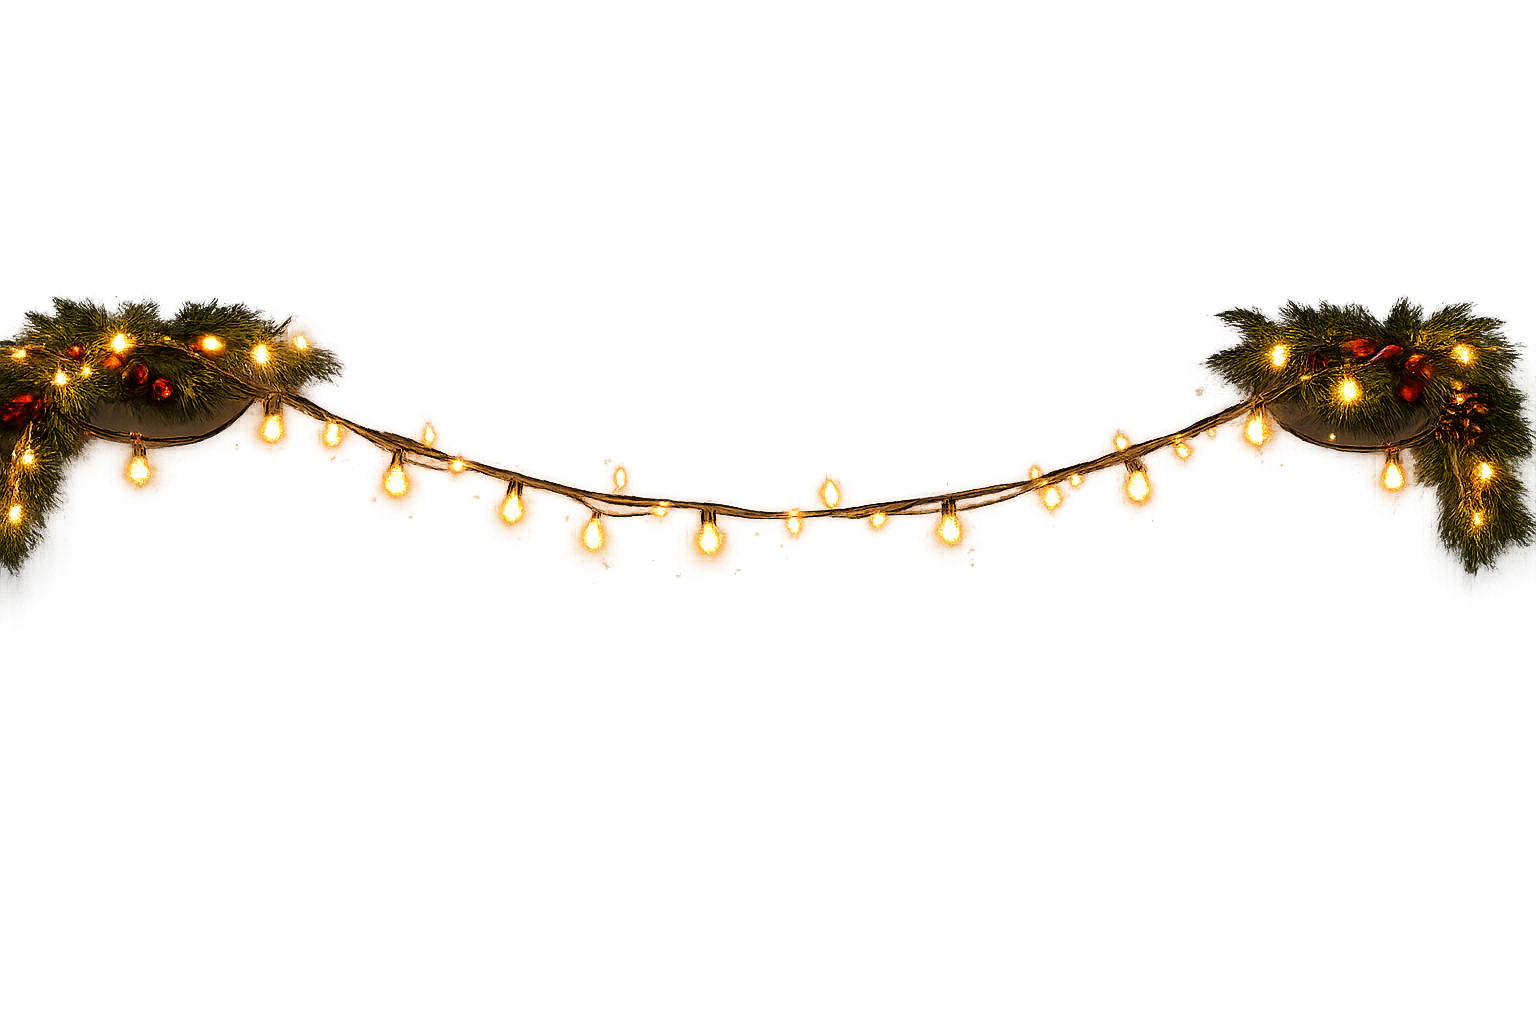
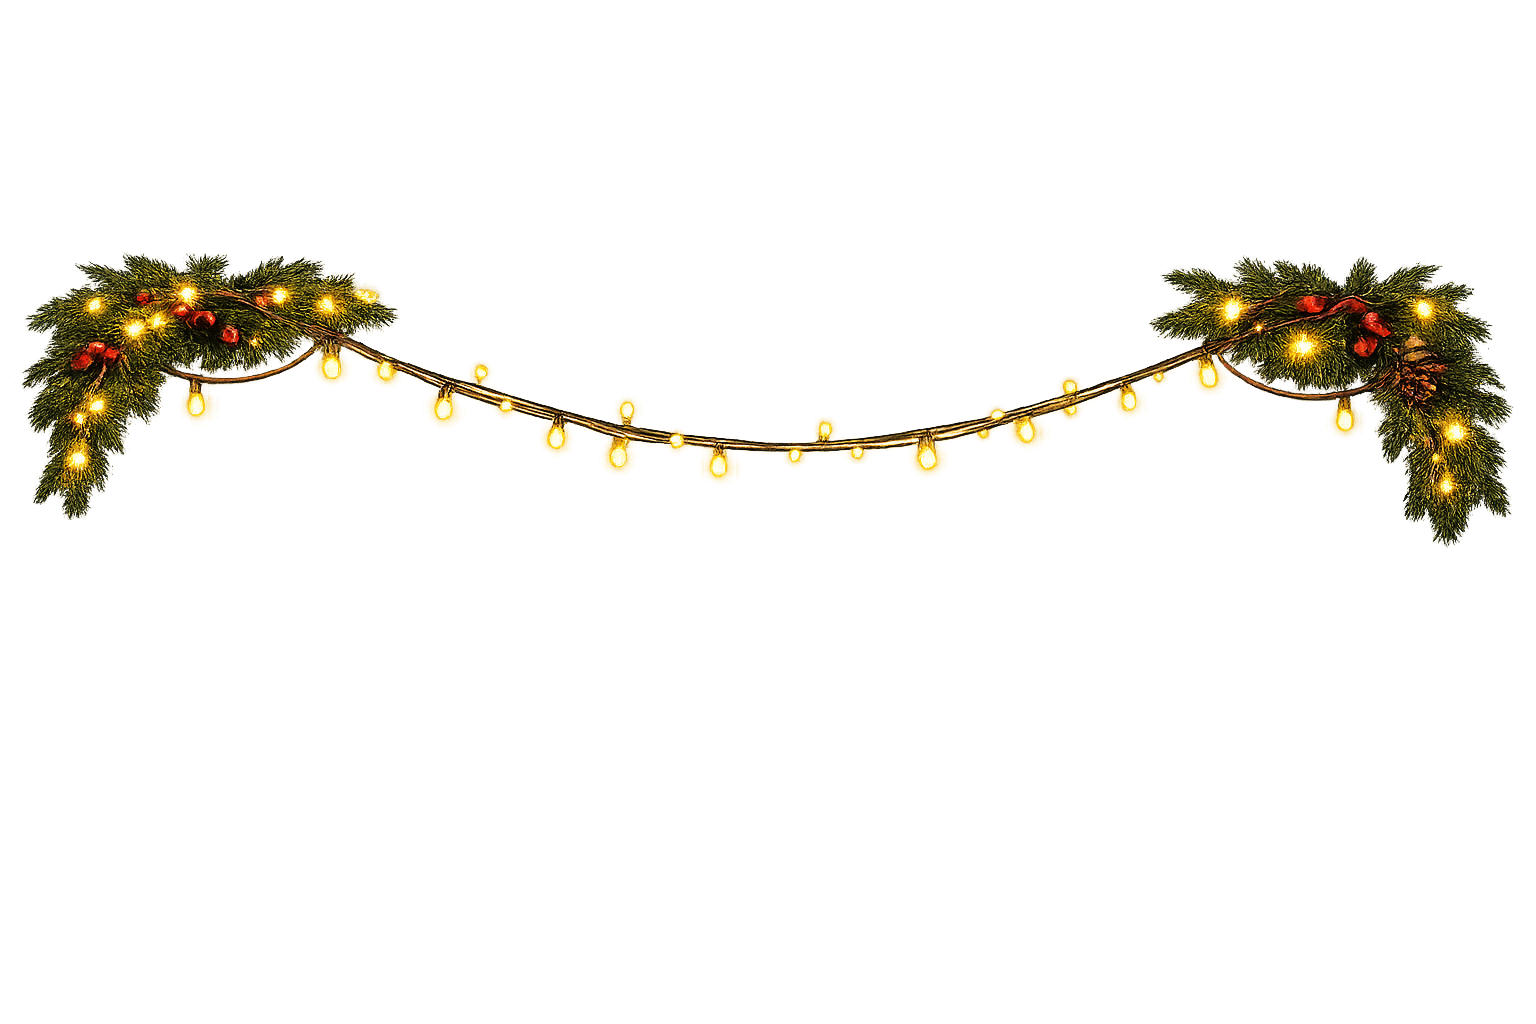
Navbar Added, Hero Section UI worked

Changed region(s): [[0.0, 0.25, 1.0, 0.5938]]

diff --git a/components/HeroSection.tsx b/components/HeroSection.tsx
@@ -17,15 +17,27 @@ import QuoteForm from "./QuoteForm";
 // ── Snowflake + thin red divider ───────────────────────────────────────────────
 function HeadingDivider() {
   return (
-    <div className="flex items-center gap-3 my-6">
+    <div className="flex items-center gap-3.5 my-3 w-full max-w-[480px] xl:max-w-[540px]">
       <div
-        className="h-px"
-        style={{ width: 60, backgroundColor: "var(--primary)" }}
+        className="flex-1 h-px"
+        style={{
+          background:
+            "linear-gradient(90deg, transparent 0%, var(--primary) 100%)",
+        }}
       />
-      <Snowflake size={14} style={{ color: "var(--primary)" }} />
+      <Snowflake
+        size={18}
+        style={{
+          color: "var(--primary)",
+          filter: "drop-shadow(0 0 6px rgba(217, 53, 53, 0.6))",
+        }}
+      />
       <div
-        className="h-px"
-        style={{ width: 60, backgroundColor: "var(--primary)" }}
+        className="flex-1 h-px"
+        style={{
+          background:
+            "linear-gradient(90deg, var(--primary) 0%, transparent 100%)",
+        }}
       />
     </div>
   );
@@ -61,7 +73,7 @@ function TrustBadge({
         <Icon size={18} style={{ color: "var(--primary)" }} />
       </div>
       <p
-        className="text-xs font-semibold leading-tight"
+        className="text-xs font-semibold leading-tight xl:text-sm"
         style={{ color: "var(--heading)" }}
       >
         {title}
@@ -168,7 +180,7 @@ export default function HeroSection() {
       </div>
 
       {/* ── Main Content ──────────────────────────────────────────────────────── */}
-      <div className="relative z-10 w-full px-6 sm:px-10 lg:px-16 xl:px-24 2xl:px-32 py-20 md:py-24 lg:py-20">
+      <div className="relative z-10 w-full px-6 sm:px-10 lg:px-16 xl:px-24 2xl:px-32 pt-28 md:pt-36 lg:pt-32 pb-20">
         <div className="flex flex-col lg:flex-row lg:items-center lg:justify-between gap-12 lg:gap-12 xl:gap-12 ">
           {/* ── LEFT COLUMN ──────────────────────────────────────────────────── */}
           <div className="w-full lg:max-w-[620px] xl:max-w-[960px] flex flex-col items-start lg:pt-6 ">
@@ -179,9 +191,9 @@ export default function HeroSection() {
               transition={{ duration: 0.6, delay: 0.1 }}
               className="flex items-center gap-2 mb-5"
             >
-              <TreePine size={15} style={{ color: "var(--primary)" }} />
+              <TreePine size={22} style={{ color: "var(--primary)" }} />
               <span
-                className="text-xs font-semibold tracking-[0.22em] uppercase"
+                className="text-xs  font-semibold tracking-[0.22em] uppercase"
                 style={{ color: "var(--primary)" }}
               >
                 Professional Christmas Light Installation
@@ -197,7 +209,7 @@ export default function HeroSection() {
                 delay: 0.2,
                 ease: [0.22, 1, 0.36, 1],
               }}
-              className="text-5xl md:text-6xl xl:text-7xl 2xl:text-8xl  font-bold leading-[1.08] tracking-tight mb-1 font-playfair"
+              className="text-5xl md:text-6xl xl:text-7xl 2xl:text-8xl  font-bold leading-[1] tracking-tight mb-1 font-playfair"
               style={{ color: "var(--heading)" }}
             >
               We Make Your Home
@@ -215,7 +227,7 @@ export default function HeroSection() {
               className="relative inline-block mb-1"
             >
               <span
-                className="text-5xl md:text-6xl xl:text-7xl 2xl:text-8xl font-bold leading-[1.08] tracking-tight italic font-playfair"
+                className="text-5xl md:text-6xl xl:text-7xl 2xl:text-8xl font-bold leading-[1] tracking-tight italic font-playfair"
                 style={{
                   color: "var(--primary)",
                   textShadow: "0 0 40px rgba(217,53,53,0.45)",
@@ -255,7 +267,7 @@ export default function HeroSection() {
                 delay: 0.36,
                 ease: [0.22, 1, 0.36, 1],
               }}
-              className="text-5xl md:text-6xl xl:text-7xl 2xl:text-8xl font-bold leading-[1.08] tracking-tight font-playfair"
+              className="text-5xl md:text-6xl xl:text-7xl 2xl:text-8xl font-bold leading-[1] tracking-tight font-playfair"
               style={{ color: "var(--heading)" }}
             >
               on the Block
@@ -266,6 +278,7 @@ export default function HeroSection() {
               initial={{ opacity: 0 }}
               animate={{ opacity: 1 }}
               transition={{ duration: 0.5, delay: 0.55 }}
+              className="w-full"
             >
               <HeadingDivider />
             </motion.div>
@@ -275,7 +288,7 @@ export default function HeroSection() {
               initial={{ opacity: 0, y: 16 }}
               animate={{ opacity: 1, y: 0 }}
               transition={{ duration: 0.6, delay: 0.5 }}
-              className="text-base md:text-lg leading-normal max-w-[440px] mb-6 2xl:text-xl"
+              className="text-base md:text-lg leading-normal max-w-[440px] xl:max-w-[560px] mb-6 2xl:text-xl"
               style={{ color: "var(--body)" }}
             >
               Custom designs, expert installation, and worry free service from
@@ -331,12 +344,12 @@ export default function HeroSection() {
               </motion.a>
             </motion.div>
 
-            {/* Trust Badges — capped width so they don't stretch on wide screens */}
+            {/* Trust Badges — wider container matching design specifications */}
             <motion.div
               initial={{ opacity: 0, y: 24 }}
               animate={{ opacity: 1, y: 0 }}
               transition={{ duration: 0.6, delay: 0.72 }}
-              className="w-full max-w-[580px]"
+              className="w-full max-w-[760px]"
             >
               <div
                 className="grid grid-cols-2 md:grid-cols-4 rounded-xl overflow-hidden p-5 gap-y-4"
@@ -374,8 +387,6 @@ export default function HeroSection() {
           >
             <QuoteForm />
           </div>
-
-
         </div>
       </div>
     </section>

diff --git a/components/Navbar.tsx b/components/Navbar.tsx
@@ -1,0 +1,110 @@
+"use client";
+
+import Image from "next/image";
+import { motion } from "motion/react";
+import { Phone } from "lucide-react";
+
+export default function Navbar() {
+  return (
+    <header className="fixed top-0 left-0 right-0 z-50 pt-3 sm:pt-4 md:pt-6 px-3 sm:px-6 lg:px-12 xl:px-16 2xl:px-24 pointer-events-none">
+      <div className="w-full mx-auto pointer-events-auto">
+        <motion.nav
+          initial={{ opacity: 0, y: -20 }}
+          animate={{ opacity: 1, y: 0 }}
+          transition={{ duration: 0.7, ease: [0.22, 1, 0.36, 1] }}
+          className="relative flex items-center justify-between px-3.5 sm:px-5 md:px-7 lg:px-9 h-[60px] sm:h-[68px] md:h-[74px] lg:h-[78px] xl:h-[82px] rounded-[20px] sm:rounded-[26px] md:rounded-[30px] transition-all duration-300 overflow-hidden"
+          style={{
+            backgroundColor: "rgba(18, 10, 10, 0.65)",
+            backdropFilter: "blur(20px) saturate(180%)",
+            WebkitBackdropFilter: "blur(20px) saturate(180%)",
+            border: "1px solid rgba(139, 64, 54, 0.45)",
+            boxShadow:
+              "0 20px 50px rgba(0, 0, 0, 0.65), inset 0 1px 1px rgba(255, 255, 255, 0.15), 0 0 30px rgba(217, 53, 53, 0.12)",
+          }}
+        >
+          {/* Subtle top edge light reflection */}
+          <div
+            className="absolute inset-x-8 top-0 h-px pointer-events-none"
+            style={{
+              background:
+                "linear-gradient(90deg, transparent 0%, rgba(255, 220, 180, 0.35) 30%, rgba(217, 53, 53, 0.4) 70%, transparent 100%)",
+            }}
+          />
+
+          {/* ── LEFT SIDE: Golden House Icon + HTML Text Unit ────────────────── */}
+          <div className="flex items-center h-full shrink-0">
+            <a
+              href="#"
+              className="group flex items-center gap-2.5 sm:gap-3 md:gap-3.5 h-full focus:outline-none focus-visible:ring-2 focus-visible:ring-primary rounded-lg"
+              aria-label="Denver Christmas Lights Home"
+            >
+              {/* Golden House Logo Icon */}
+              <Image
+                src="/NavbarLogo.png"
+                alt="Denver Christmas Lights House Logo"
+                width={120}
+                height={120}
+                priority
+                className="h-8 sm:h-10 md:h-11 lg:h-12 w-auto object-contain shrink-0 filter drop-shadow-[0_2px_10px_rgba(245,200,106,0.35)] transition-transform duration-300 group-hover:scale-105"
+              />
+
+              {/* Text Unit */}
+              <div className="flex flex-col justify-center select-none">
+                <span className="font-playfair text-base sm:text-lg md:text-xl lg:text-2xl font-bold tracking-[0.16em] uppercase text-[#fcf8f2] leading-none mb-0.5 sm:mb-1 group-hover:text-white transition-colors">
+                  DENVER
+                </span>
+                <span className="text-[8px] sm:text-[10px] md:text-xs font-bold tracking-[0.24em] uppercase text-[#d93535] leading-none">
+                  CHRISTMAS LIGHTS
+                </span>
+              </div>
+            </a>
+          </div>
+
+          {/* ── RIGHT SIDE: Responsive 3D Call Button ─────────────────────── */}
+          <div className="flex items-center h-full shrink-0">
+            <motion.a
+              id="navbar-call-btn"
+              href="tel:+17205134567"
+              whileHover={{
+                scale: 1.03,
+                boxShadow:
+                  "0 8px 28px rgba(217, 53, 53, 0.6), inset 0 1.5px 2px rgba(255, 255, 255, 0.45)",
+              }}
+              whileTap={{ scale: 0.97 }}
+              className="relative group flex items-center gap-1.5 sm:gap-2 md:gap-2.5 px-3 sm:px-4 md:px-5 py-1.5 sm:py-2 md:py-2.5 rounded-full text-white font-medium text-[11px] sm:text-xs md:text-sm tracking-wide overflow-hidden transition-all duration-300 focus:outline-none focus-visible:ring-2 focus-visible:ring-white shrink-0"
+              style={{
+                background:
+                  "linear-gradient(180deg, #e53939 0%, #c62424 50%, #991616 100%)",
+                border: "1px solid rgba(255, 220, 220, 0.35)",
+                boxShadow:
+                  "0 6px 20px rgba(217, 53, 53, 0.4), inset 0 1.5px 1.5px rgba(255, 255, 255, 0.35), inset 0 -2px 4px rgba(0, 0, 0, 0.35)",
+              }}
+            >
+              {/* 3D Top shine highlight overlay */}
+              <span
+                className="absolute inset-x-0 top-0 h-1/2 rounded-t-full pointer-events-none"
+                style={{
+                  background:
+                    "linear-gradient(180deg, rgba(255, 255, 255, 0.24) 0%, transparent 100%)",
+                }}
+              />
+
+              {/* Phone Icon inside small circular glass disc */}
+              <span className="relative w-5 h-5 sm:w-6 sm:h-6 md:w-7 md:h-7 lg:w-8 lg:h-8 rounded-full bg-black/35 border border-white/25 flex items-center justify-center shrink-0 shadow-inner group-hover:scale-105 transition-transform duration-200">
+                <Phone size={12} className="text-white fill-white sm:w-3 sm:h-3 md:w-3.5 md:h-3.5 lg:w-4 lg:h-4" />
+              </span>
+
+              {/* Button Text */}
+              <span className="relative font-semibold tracking-tight whitespace-nowrap">
+                <span className="hidden sm:inline">Call Me </span>
+                <span className="font-normal opacity-95">
+                  (720) 513-4567
+                </span>
+              </span>
+            </motion.a>
+          </div>
+        </motion.nav>
+      </div>
+    </header>
+  );
+}

diff --git a/components/QuoteForm.tsx b/components/QuoteForm.tsx
@@ -34,11 +34,11 @@ function FormField({
 
   return (
     <div
-      className="flex items-center gap-3 px-4 py-3.5 rounded-xl border transition-colors duration-200 group"
+      className="flex items-center gap-3 px-4 py-3.5 rounded-xl border-[1.5px] transition-colors duration-200 group"
       style={{
         background:
           "linear-gradient(180deg, rgba(72,22,18,0.55) 0%, rgba(38,10,9,0.72) 100%)",
-        borderColor: "rgba(142,73,56,0.55)",
+        borderColor: "rgba(142,73,56,0.8)",
         boxShadow:
           "inset 0 1px 0 rgba(255,255,255,0.04), inset 0 -1px 0 rgba(0,0,0,0.25)",
       }}
@@ -128,22 +128,21 @@ export default function QuoteForm() {
         card border naturally, and position it so the string hangs just
         over the card's top edge.
       */}
+      {/*
+        Christmas Lights — attached naturally along the top edge of the card frame.
+        Positioned so the pine corner garlands hug the card's top corners and the
+        string sags cleanly above the text.
+      */}
       <div
         className="absolute z-20 pointer-events-none"
         style={{
-          top: "-52px",
-          left: "-16px",
-          right: "-16px",
+          top: "-76px",
+          left: "-18px",
+          right: "-18px",
         }}
       >
         <motion.div
-          animate={{
-            filter: [
-              "drop-shadow(0 0 6px rgba(245,198,106,0.55)) drop-shadow(0 0 14px rgba(255,220,130,0.3))",
-              "drop-shadow(0 0 14px rgba(245,198,106,0.9)) drop-shadow(0 0 28px rgba(255,220,130,0.55))",
-              "drop-shadow(0 0 6px rgba(245,198,106,0.55)) drop-shadow(0 0 14px rgba(255,220,130,0.3))",
-            ],
-          }}
+          animate={{ opacity: [0.88, 1, 0.88] }}
           transition={{ duration: 3, repeat: Infinity, ease: "easeInOut" }}
         >
           <Image
@@ -152,7 +151,7 @@ export default function QuoteForm() {
             width={1320}
             height={540}
             className="w-full h-auto"
-            style={{ mixBlendMode: "lighten" }}
+            style={{ mixBlendMode: "screen" }}
             priority
           />
         </motion.div>
@@ -164,7 +163,7 @@ export default function QuoteForm() {
         style={{
           background:
             "radial-gradient(ellipse 90% 45% at 50% 0%, rgba(120,30,20,0.95) 0%, rgba(72,12,10,0.97) 38%, rgba(28,6,5,0.98) 70%, rgba(14,3,3,0.99) 100%)",
-          border: "1.5px solid rgba(139,64,54,0.6)",
+          border: "2px solid rgba(139,64,54,0.9)",
           boxShadow:
             "0 0 0 1px rgba(80,20,15,0.4), 0 4px 80px rgba(180,30,20,0.22), 0 40px 100px rgba(0,0,0,0.75), inset 0 1px 0 rgba(255,180,130,0.07)",
         }}
@@ -178,8 +177,8 @@ export default function QuoteForm() {
           }}
         />
 
-        {/* Content — extra top padding so heading clears the lights */}
-        <div className="relative px-7 pt-20 pb-7">
+        {/* Content — extra top padding so heading and GET YOUR FREE label clear the lights */}
+        <div className="relative px-7 pt-24 pb-7">
           {/* Top label */}
           <p
             className="text-[11px] font-bold tracking-[0.25em] uppercase text-center mb-2"

diff --git a/app/page.tsx b/app/page.tsx
@@ -1,10 +1,12 @@
+import Navbar from "@/components/Navbar";
 import HeroSection from "@/components/HeroSection";
 
 const page = () => {
   return (
-    <div>
+    <main className="relative min-h-screen">
+      <Navbar />
       <HeroSection />
-    </div>
+    </main>
   );
 };
 
